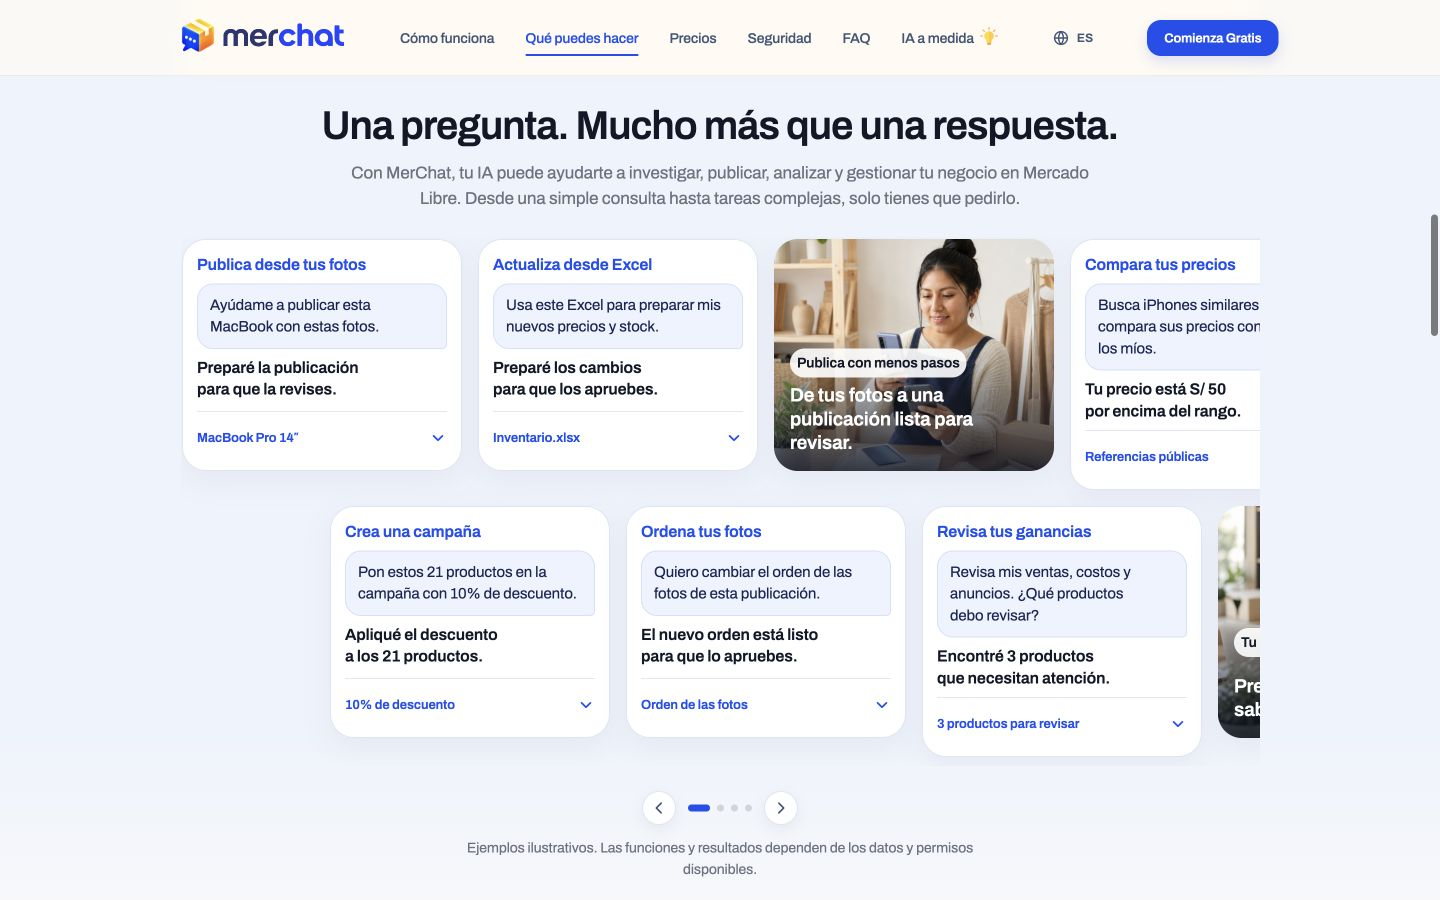
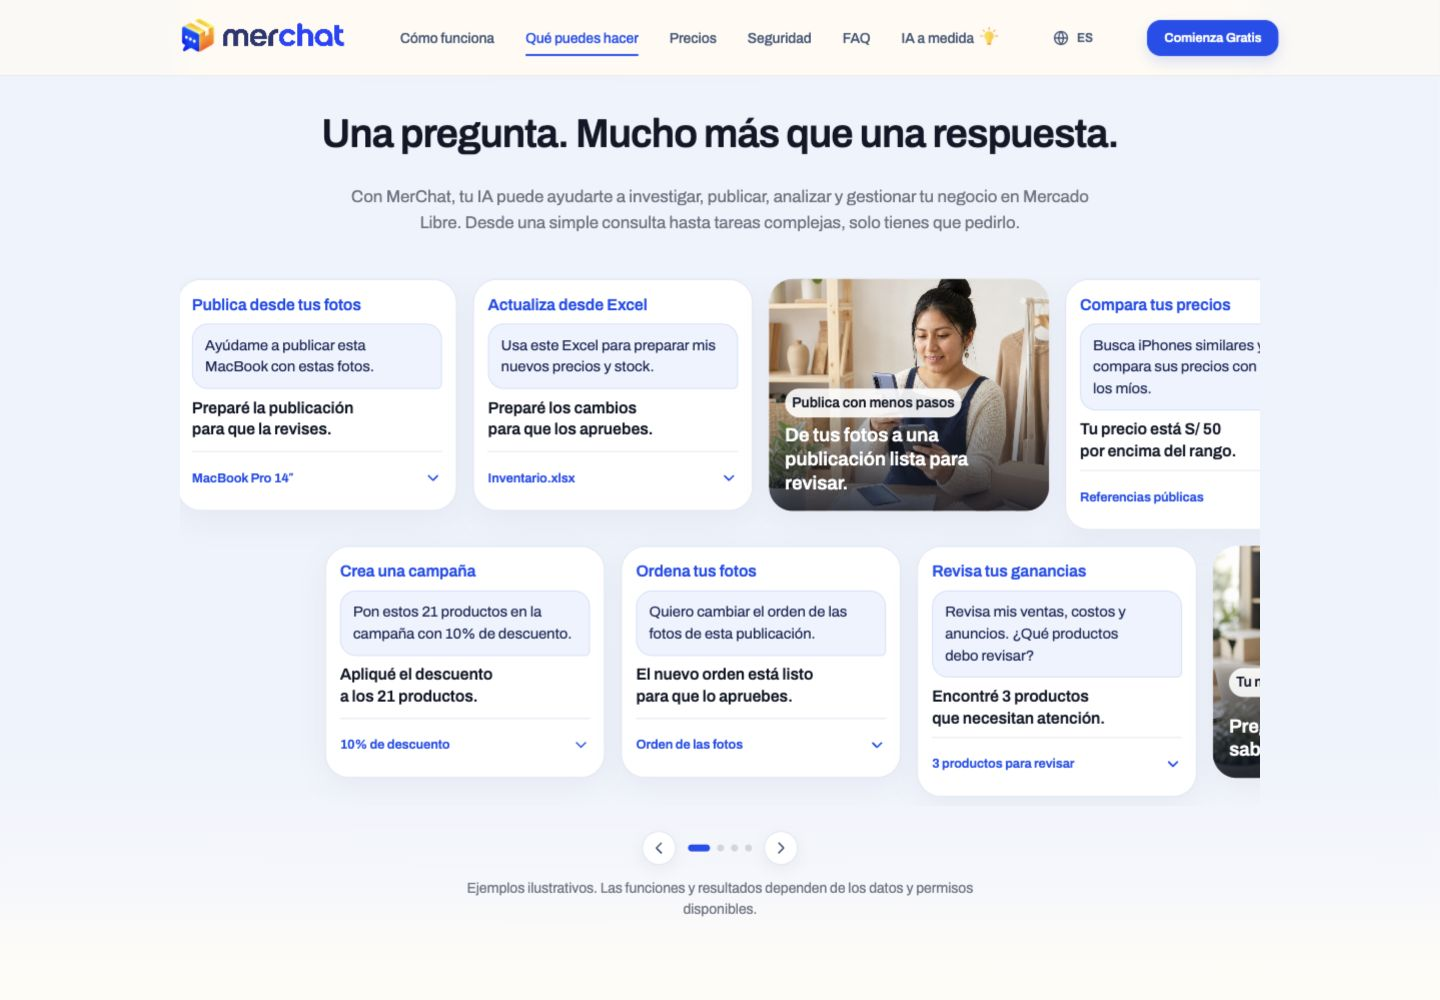
Align carousel spacing with section rhythm

diff --git a/app/globals.css b/app/globals.css
@@ -2416,9 +2416,10 @@ body, main { background: var(--bg); }
 .features h3 { min-height: 2.6em; }
 
 /* Capability stories: the request leads, the preview makes the outcome concrete. */
-main .functions-group section#resultados { padding-block: 24px 32px; scroll-margin-top: 80px; }
-#resultados .section-title { max-width: 38ch; margin-bottom: 12px; }
-#resultados .showcase-intro { max-width: 80ch; margin: 0 auto 24px; text-align: center; font-size: 17px; line-height: 1.5; color: var(--muted); text-wrap: pretty; }
+main section#funciones.functions-group { padding-block: 0; }
+main .functions-group section#resultados { padding-block: 32px 56px; scroll-margin-top: 80px; }
+#resultados .section-title { max-width: 38ch; margin-bottom: 28px; }
+#resultados .showcase-intro { max-width: 80ch; margin: 0 auto 40px; text-align: center; font-size: 17px; line-height: 1.5; color: var(--muted); text-wrap: pretty; }
 #resultados .showcase-disclaimer { max-width: 72ch; margin: 12px auto 0; text-align: center; font-size: 14px; line-height: 1.55; color: var(--muted); }
 #resultados .carousel-set { grid-auto-columns: 280px; grid-template-rows: repeat(2, max-content); gap: 16px; padding-right: 148px; }
 #resultados .carousel-set .example-card { width: 280px; min-height: 232px; padding: 14px; gap: 8px; }
@@ -2477,10 +2478,12 @@ main .functions-group section#resultados { padding-block: 24px 32px; scroll-marg
 #resultados .example-photo .photo-overlay strong { font-size: 23px; line-height: 1.25; }
 #resultados .carousel-arrow:focus-visible, #resultados .dots button:focus-visible { outline: 3px solid var(--blue); outline-offset: 5px; }
 @media(max-width:640px) {
+  main .functions-group section#resultados { padding-block: 44px; }
+  #resultados .section-title { margin-bottom: 24px; }
   #resultados .carousel-set { grid-auto-columns: calc(88vw - 32px); padding-right: 0; grid-template-rows: max-content; gap: 12px; }
   #resultados .carousel-set > .example-card:nth-child(even) { transform: none; }
   #resultados .carousel-set .example-card { width: calc(88vw - 32px); padding: 14px; gap: 8px; }
-  #resultados .showcase-intro { font-size: 16px; margin-bottom: 20px; }
+  #resultados .showcase-intro { font-size: 16px; margin-bottom: 32px; }
   #resultados .cap-preview { padding: 12px; font-size: 13px; }
   #resultados .cap-accounts .cap-item { padding: 7px; }
   #resultados .cap-accounts .cap-item b { font-size: 16px; }

diff --git a/docs/carousel-review/README.md b/docs/carousel-review/README.md
@@ -10,13 +10,15 @@ Mobile uses one horizontal row, with no staggered translation. The original copy
 
 `UseCaseDemoCard`, `UseCaseResult`, `PhotoDemoCard` and `ShowcaseCards` remain the shared rendering structure. No runtime dependency, seller API or backend was added. Local product imagery sources are documented in `public/images/products/SOURCES.md`.
 
+The carousel header now follows the page rhythm: 28px between heading and introduction and 40px before the cards on desktop; 24px and 32px on mobile. The containing functions group has no extra outer padding, preventing doubled section spacing. The rendered gap from the feature content to the carousel heading is 64px; from the carousel note to the next section heading it is 112px on desktop. Card dimensions and all copy are unchanged.
+
 ## Validation
 
 - Production build and TypeScript checks passed.
 - ESLint: no errors; existing `BrandLogo.tsx` image warning.
 - Carousel/content and localization tests: all 5 passed. `git diff --check` passed.
 - Five widths checked: 1440, 1024, 768, 390 and 360px. No page or card overflow. Desktop has two rows; mobile has one.
-- At 1440 × 900, both rows, heading, controls and illustrative-results note fit in the overview screenshot. At 390 × 844, the heading, overview card, controls and note fit together.
+- The current desktop screenshot is 1440 × 1000 and includes both rows, heading, controls and illustrative-results note. At 390 × 844, the heading, overview card, controls and note fit together.
 - All four locales checked at 360px. Expanded listing, diagnosis, price comparison, advertising and account previews had no overflow. Only one disclosure remained open.
 - Click expands a preview; Enter collapses it. Expanded content includes the original preview and supporting description. Clone disclosures are inert.
 - Next arrow moved to quarter two; first dot returned to the start. Dragging moved the carousel 165px. Temporary viewport overrides were restored.
@@ -25,7 +27,7 @@ Mobile uses one horizontal row, with no staggered translation. The original copy
 
 ## Scope
 
-Layout refinements affect only the shared carousel component and `#resultados` styles. No message file changed in the compact-layout commit. The broader PR contains the approved carousel datasets and copy work. Hero, navigation, other sections, pricing and its fonts, routing, metadata and integrations retain the saved styling baseline.
+Layout refinements affect the shared carousel component, `#resultados` styles and the functions-group wrapper padding. No message file changed in the compact-layout commit. The broader PR contains the approved carousel datasets and copy work. Hero, navigation, other sections, pricing and its fonts, routing, metadata and integrations retain the saved styling baseline.
 
 ## Screenshots
 
